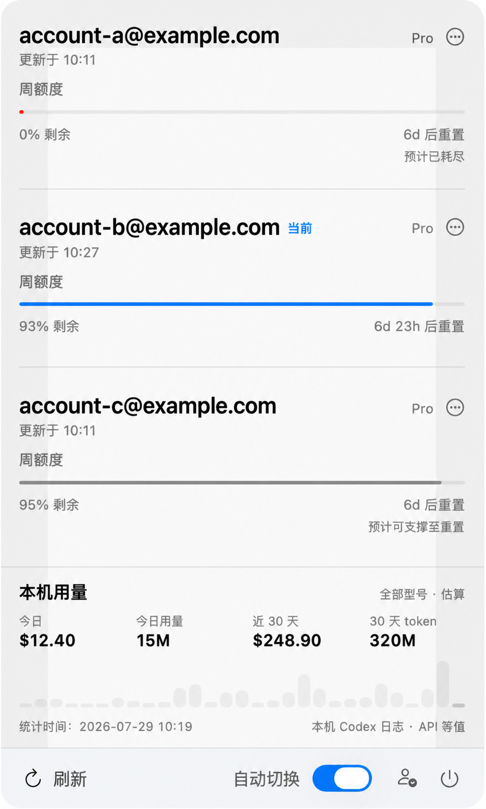
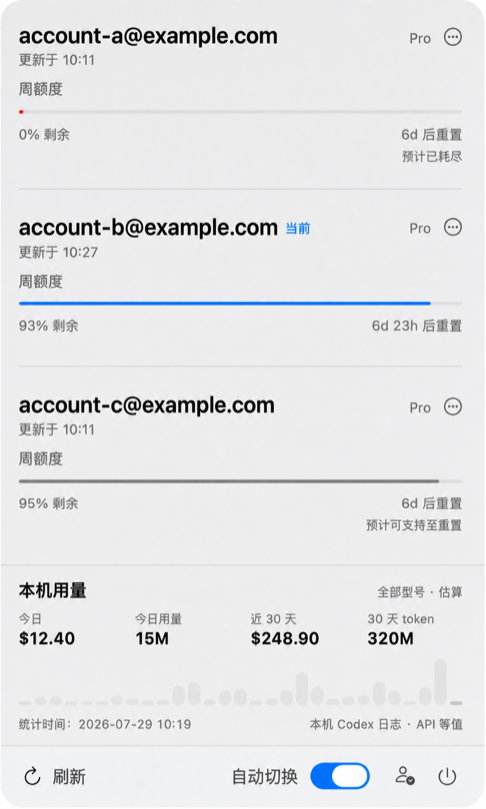
docs: refine menu screenshot

diff --git a/README.md b/README.md
@@ -6,7 +6,7 @@ A native macOS menu bar watchdog for switching between your ChatGPT Codex accoun
 
 The app is installed as `CodexDog.app`.
 
-![CodexDog menu showing multiple accounts, weekly quota, local usage, and automatic switching](docs/images/codexdog-menu.png)
+<img src="docs/images/codexdog-menu.png" alt="CodexDog menu showing multiple accounts, weekly quota, local usage, and automatic switching" width="360">
 
 ## Features
 
